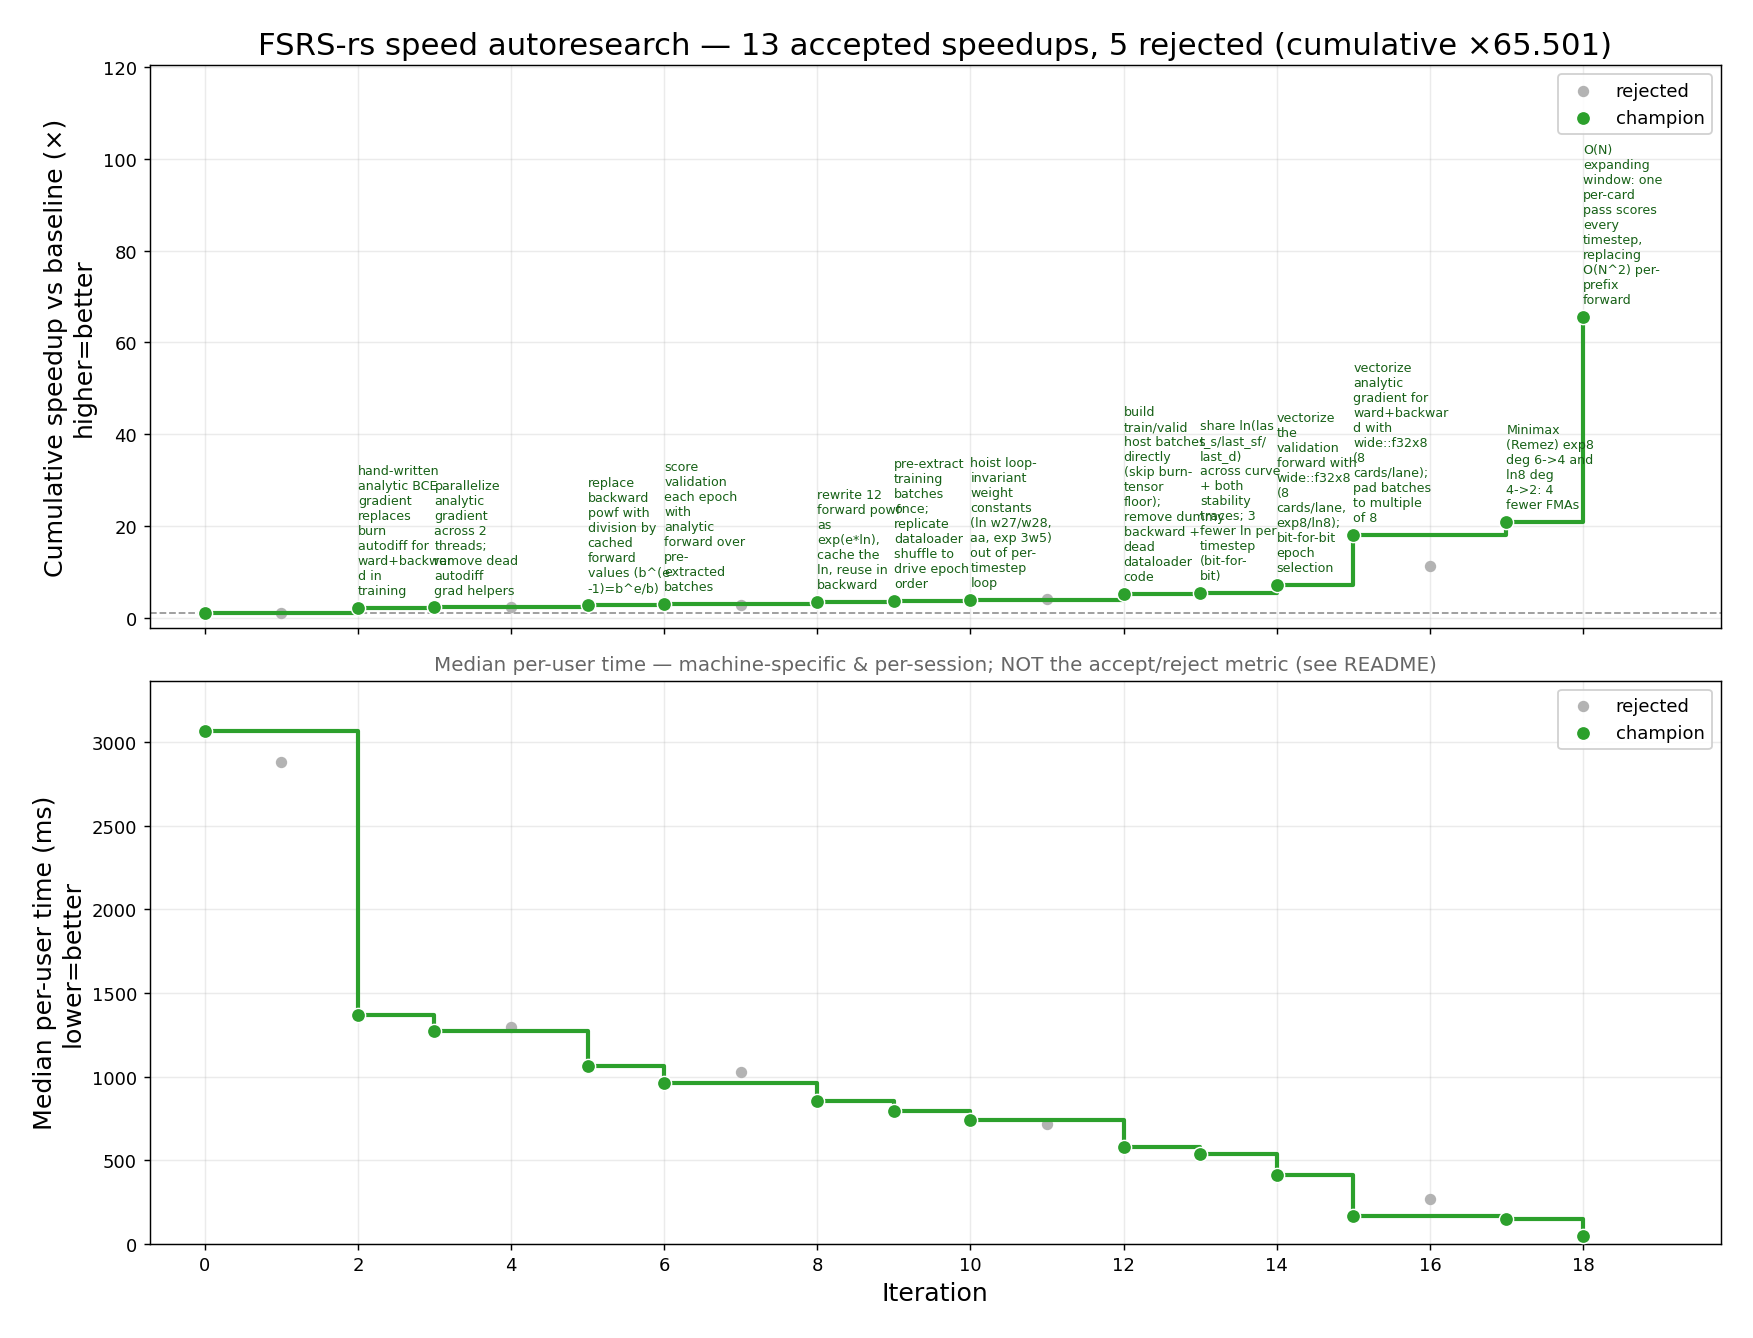
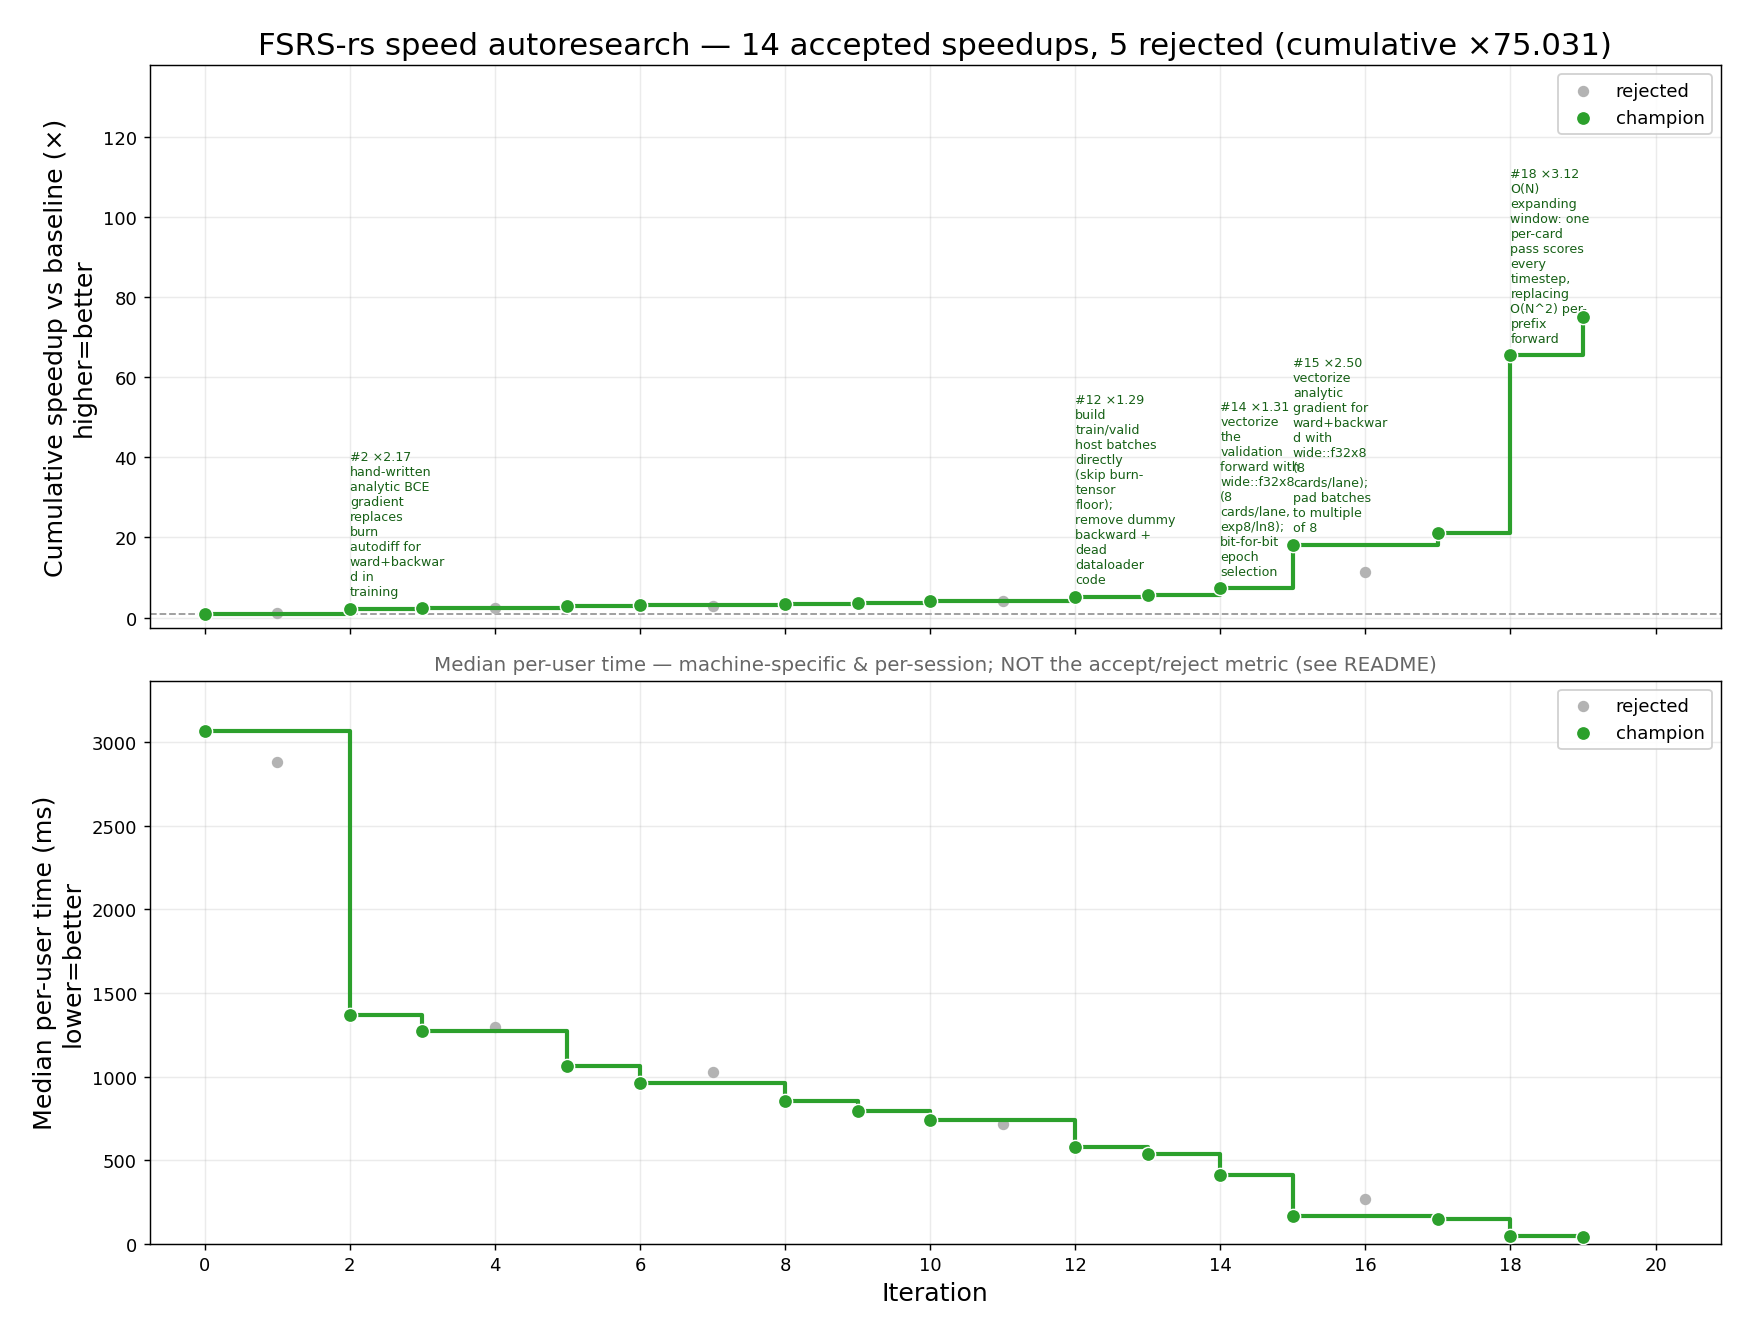
iter19: build host batches once — +14.5% median, bit-for-bit (+ plot/README polish)
After the O(N) window collapsed the forward, the per-user SETUP floor grew to
~a third of the largest users' time. train() was handed weighted_train_set.clone()
plus weighted_train_set (train == test in BOTH compute_parameters() and benchmark()),
so it cloned the whole dataset AND ran build_host_batches() twice on identical data.
Now train() takes ONE dataset, builds the host batches ONCE, and validation reuses
them (only the index order differs: per-epoch reshuffle for the gradient vs the fixed
valid_order). Drops one O(N) clone + one full build_host_batches().

  * median speed_ratio 1.1455 (mean 1.1464); 47ms -> 40.5ms.
  * BIT-FOR-BIT: 0/50 param diff, d_AVG LogLoss 0.000000 (grad/valid only ever READ
    the immutable batches).
  * complexity 7207 -> 7204 (removed the test_set param + valid_host build + clone).

Re-anchor (overdue): the iter18 champion measured DIRECTLY against the iter-0 baseline
back-to-back is x62.04 median (mean x72.0), vs the product line's x65.5 — so the
compounding winner's-curse inflation is only ~5-6%. Cumulative accuracy cost is
+0.001087 log loss vs the original, inside the +-0.0015 band.

Tooling/docs (Andrew-requested):
  * plot_history.py: label only the top-5 biggest wins on the speedup panel
    (--label-top, default 5) instead of every champion, which had become cluttered;
    each label is prefixed "#iter xSR".
  * README: a "winner's curse" subsection explaining why the cumulative product is
[…]

diff --git a/fsrs-rs/src/training.rs b/fsrs-rs/src/training.rs
@@ -1296,7 +1296,6 @@ pub fn compute_parameters(
         progress.lock().unwrap().splits = vec![progress_state];
     }
     let model = train::<Autodiff<B>>(
-        weighted_train_set.clone(),
         weighted_train_set,
         &initialized_parameters,
         &config,
@@ -1356,7 +1355,6 @@ pub fn benchmark(
     let mut weighted_train_set = recency_weighted_fsrs_items(train_set);
     weighted_train_set.retain(|item| item.item.reviews.len() <= config.max_seq_len);
     let model = train::<Autodiff<B>>(
-        weighted_train_set.clone(),
         weighted_train_set,
         &initialized_parameters,
         &config,
@@ -1525,31 +1523,31 @@ fn build_host_batches(items: Vec<WeightedFSRSItem>, batch_size: usize) -> Vec<Ba
 
 fn train<B: AutodiffBackend>(
     train_set: Vec<WeightedFSRSItem>,
-    test_set: Vec<WeightedFSRSItem>,
     initial_parameters: &[f32],
     config: &TrainingConfig,
     progress: Option<ProgressCollector>,
 ) -> Result<Model<B>> {
     B::seed(config.seed);
 
-    // Training data
+    // Training data. In this codebase the train set == the test set (both compute_parameters() and
+    // benchmark() train and validate on the same weighted items), so the host batches are built ONCE
+    // and reused for BOTH the gradient pass and the per-epoch validation. This drops a redundant O(N)
+    // clone of the dataset plus a second full build_host_batches() — a sizeable share of the per-user
+    // setup floor, which grew to ~a third of the largest users' time after the O(N) window. Bit-for-
+    // bit: the gradient and validation only ever READ these immutable batches; only their index
+    // orders differ (per-epoch reshuffle vs. the fixed valid_order below).
     let total_size = train_set.len();
-    let test_size = test_set.len();
+    let test_size = total_size;
     let iterations = (total_size / config.batch_size + 1) * config.num_epochs;
-    // Build the TRAINING batches as host arrays directly (no burn tensors — they were built then
-    // immediately extracted to host and dropped). The data is fixed; only the batch ORDER changes
-    // per epoch (the shuffle is replicated below).
     let train_host: Vec<BatchHost> = build_host_batches(train_set, config.batch_size);
     let n_train_batches = train_host.len();
     // Replicates ShuffleDataLoader's RNG (StdRng::seed_from_u64(seed), advanced one shuffle per
     // epoch) so the per-epoch batch order is byte-identical to the old dataloader path.
     let mut shuffle_rng = StdRng::seed_from_u64(config.seed);
 
-    // Validation batches, built directly too. The old ShuffleDataLoader shuffled the batch order
-    // ONCE (StdRng::seed_from_u64(seed)); replicate that with `valid_order` so each epoch sums the
-    // validation batches in byte-identical order (the analytic batch_loss is otherwise the same).
-    let valid_host: Vec<BatchHost> = build_host_batches(test_set, config.batch_size);
-    let mut valid_order: Vec<usize> = (0..valid_host.len()).collect();
+    // Validation scores the SAME batches; the old ShuffleDataLoader shuffled their order ONCE
+    // (StdRng::seed_from_u64(seed)), replicated with `valid_order` for byte-identical summation.
+    let mut valid_order: Vec<usize> = (0..n_train_batches).collect();
     valid_order.shuffle(&mut StdRng::seed_from_u64(config.seed));
 
     let mut lr_scheduler = CosineAnnealingLR::init(iterations as f64, config.learning_rate);
@@ -1677,7 +1675,7 @@ fn train<B: AutodiffBackend>(
         let w_vec_valid = model.w.val().to_data().to_vec::<f32>().unwrap();
         let mut loss_valid = 0.0;
         for &vi in &valid_order {
-            let vb = &valid_host[vi];
+            let vb = &train_host[vi];
             let (l2_penalty_value, _) = l2_penalty(
                 &w_vec_valid,
                 &init_w_vec,

diff --git a/plot_history.py b/plot_history.py
@@ -10,7 +10,9 @@ Reads ``result/history.jsonl`` and draws TWO stacked views vs iteration
    real "progress" curve, and it is drift-immune: every ``speed_ratio`` is a
    within-session *paired* ratio, so cross-session machine drift cancels.
    Rejected variants are drawn where they would have landed
-   (current cumulative x their ``speed_ratio``).
+   (current cumulative x their ``speed_ratio``). Only the TOP-N biggest wins
+   (highest per-iteration ``speed_ratio``) are labelled with their summary, so the
+   panel stays readable as the campaign grows (``--label-top``, default 5).
 2. Median per-user time (ms) — intuitive, but MACHINE-SPECIFIC and measured per
    session, so it is NOT the accept/reject metric. Informational only.
 
@@ -139,6 +141,12 @@ def main() -> None:
         help="hide the champion summary labels on the speedup panel",
     )
     ap.add_argument(
+        "--label-top",
+        type=int,
+        default=5,
+        help="label only the N biggest wins (highest speed_ratio) on the speedup panel (default 5)",
+    )
+    ap.add_argument(
         "--summary-wrap",
         type=int,
         default=12,
@@ -188,12 +196,20 @@ def main() -> None:
     _frontier(ax_sp, cx, cy, xmax)
 
     if not args.no_summaries:
+        # Only label the TOP-N biggest wins (highest per-iteration speed_ratio among the accepted
+        # champions). Annotating every champion cluttered the panel as the campaign grew; the
+        # baseline (iter 0, no change) and rejects are never labelled. Each label is prefixed with
+        # its iteration and per-iteration speedup so the big wins are self-evident.
+        labellable = [(it, y, r) for it, y, r in champ_pts if r["iteration"] != 0]
+        biggest = sorted(labellable, key=lambda p: float(p[2].get("speed_ratio") or 1.0), reverse=True)
+        top_iters = {p[0] for p in biggest[: max(0, args.label_top)]}
         for it, y, r in champ_pts:
-            if r["iteration"] == 0:
-                continue  # baseline has no change to describe
-
+            if r["iteration"] == 0 or it not in top_iters:
+                continue
+            sr = float(r.get("speed_ratio") or 1.0)
+            label = wrap_summary(f"#{it} ×{sr:.2f}  " + r.get("summary", ""), args.summary_wrap)
             ax_sp.annotate(
-                wrap_summary(r.get("summary", ""), args.summary_wrap),
+                label,
                 (it, y),
                 textcoords="offset points",
                 xytext=(0, 6),

diff --git a/profiling/_profile_user.py b/profiling/_profile_user.py
@@ -27,11 +27,12 @@ sys.argv = ["compute_parameters.py", "--algo", "FSRS-rs", "--short", "--secs",
 import compute_parameters as cp  # noqa: E402
 
 dataset = cp.UserDataLoader(cp.config).load_user_data(USER)
-items = cp.convert_to_items(dataset)
+items, card_ids = cp.convert_to_items(dataset)
 print(f"user {USER}: {len(items)} items; calling compute_parameters() x{REPS}", flush=True)
 
 backend = cp.FSRS(parameters=[])
 for i in range(REPS):
     t = time.monotonic()
-    params, secs = backend.compute_parameters(items)
+    # Pass card_ids so we profile the windowed (O(N)) champion path, not the plain fallback.
+    params, secs = backend.compute_parameters(items, card_ids)
     print(f"  rep {i}: rust={secs*1000:.0f}ms wall={(time.monotonic()-t)*1000:.0f}ms", flush=True)

diff --git a/README.md b/README.md
@@ -94,8 +94,17 @@ uv run plot_history.py
 
 The [plot at the top of this README](#fsrs-rs-speed-autoresearch) shows two stacked panels:
 
-1. **Cumulative speedup** — the running product of the accepted iterations' median `speed_ratio`. This is the accept metric (the median of per-user speed ratios) compounded, so it's what "progress" means here, and it's drift-immune.
+1. **Cumulative speedup** — the running product of the accepted iterations' median `speed_ratio`. This is the accept metric (the median of per-user speed ratios) compounded, so it's what "progress" means here, and it's drift-immune. Only the **top-5 biggest wins** are labelled with their summary, to keep the panel readable.
 2. **Median per-user time (ms)** — intuitive, but **machine-specific and measured per session, so it is *not* the metric used to accept or reject candidates** (each candidate is judged by its median per-user speed ratio, re-measured against the champion in the same session). Treat the time curve as informational context only.
+
+### Why the cumulative number is slightly optimistic (winner's curse)
+
+The top-panel cumulative speedup is a **product of measured ratios**, and that product is **biased a little high** — it overstates the true speedup. Two effects compound:
+
+1. **Selection bias (the "winner's curse").** A candidate is kept only if its *measured* median speedup clears the bar (≥ 1.05). But each measurement carries ~1% noise, so the bar acts as a filter that preferentially admits iterations whose noise happened to land *favorably*. A change whose true speedup is 1.045 but measured 1.055 gets accepted and recorded at 1.055; the symmetric unlucky case (true 1.055, measured 1.045) gets rejected and never counted. So the accepted ratios skew high — you're looking at the winners, and winners are lucky on average.
+2. **Noise compounds multiplicatively.** Each `speed_ratio` is a ratio of two noisy timings (~1% each). The cumulative line multiplies ~15 of these together, so the small upward biases multiply too, and the gap grows as the campaign gets longer.
+
+**The honest fix is to re-anchor.** Every ~10–20 iterations we measure the *current champion directly against the original iter-0 baseline*, back-to-back in one session. That single ratio is **unbiased** — there's no accept/reject filter applied to it, so no selection creeps in — and it's drift-immune (same session). The distance between the product line and that anchor point is exactly the accumulated inflation. (For example: at iter 18 the product line read ×65.5, but the direct iter-0 anchor was ×62.0 — about 5–6% optimistic. The anchor is the number to trust; the final report re-validates the champion on 1000 users.)
 
 ## Repo tour
 

diff --git a/result/history.md b/result/history.md
@@ -23,6 +23,7 @@ Accept metric: **median per-user speed_ratio ≥ 1.05** (constraint 12) AND **sp
 | 16 | 170 | 268 | 0.623 | 6458 | 6458 | 1.000 | 1.000 | ✓ | rejected | thread SIMD gradient across 2 cores (split card-groups) - REJECTED, vector units SMT-saturated |
 | 17 | 172 | 145 | 1.156 | 6458 | 6460 | 1.000 | 1.001 | ✓ | accepted | Minimax (Remez) exp8 deg 6->4 and ln8 deg 4->2: 4 fewer FMAs |
 | 18 | 145 | 46 | 3.118 | 6460 | 7207 | 1.116 | 1.315 | ✓ | accepted | O(N) expanding window: one per-card pass scores every timestep, replacing O(N^2) per-prefix forward |
+| 19 | 47 | 40 | 1.145 | 7207 | 7204 | 1.000 | 0.999 | ✓ | accepted | Build host batches once (train==test): reuse for grad+validation, drop redundant clone+build |
 
-**Cumulative speed_ratio (product of accepted): ×65.501** — upward-biased (winner's curse); anchor periodically vs iter-0 baseline.
+**Cumulative speed_ratio (product of accepted): ×75.031** — upward-biased (winner's curse); anchor periodically vs iter-0 baseline.
 
